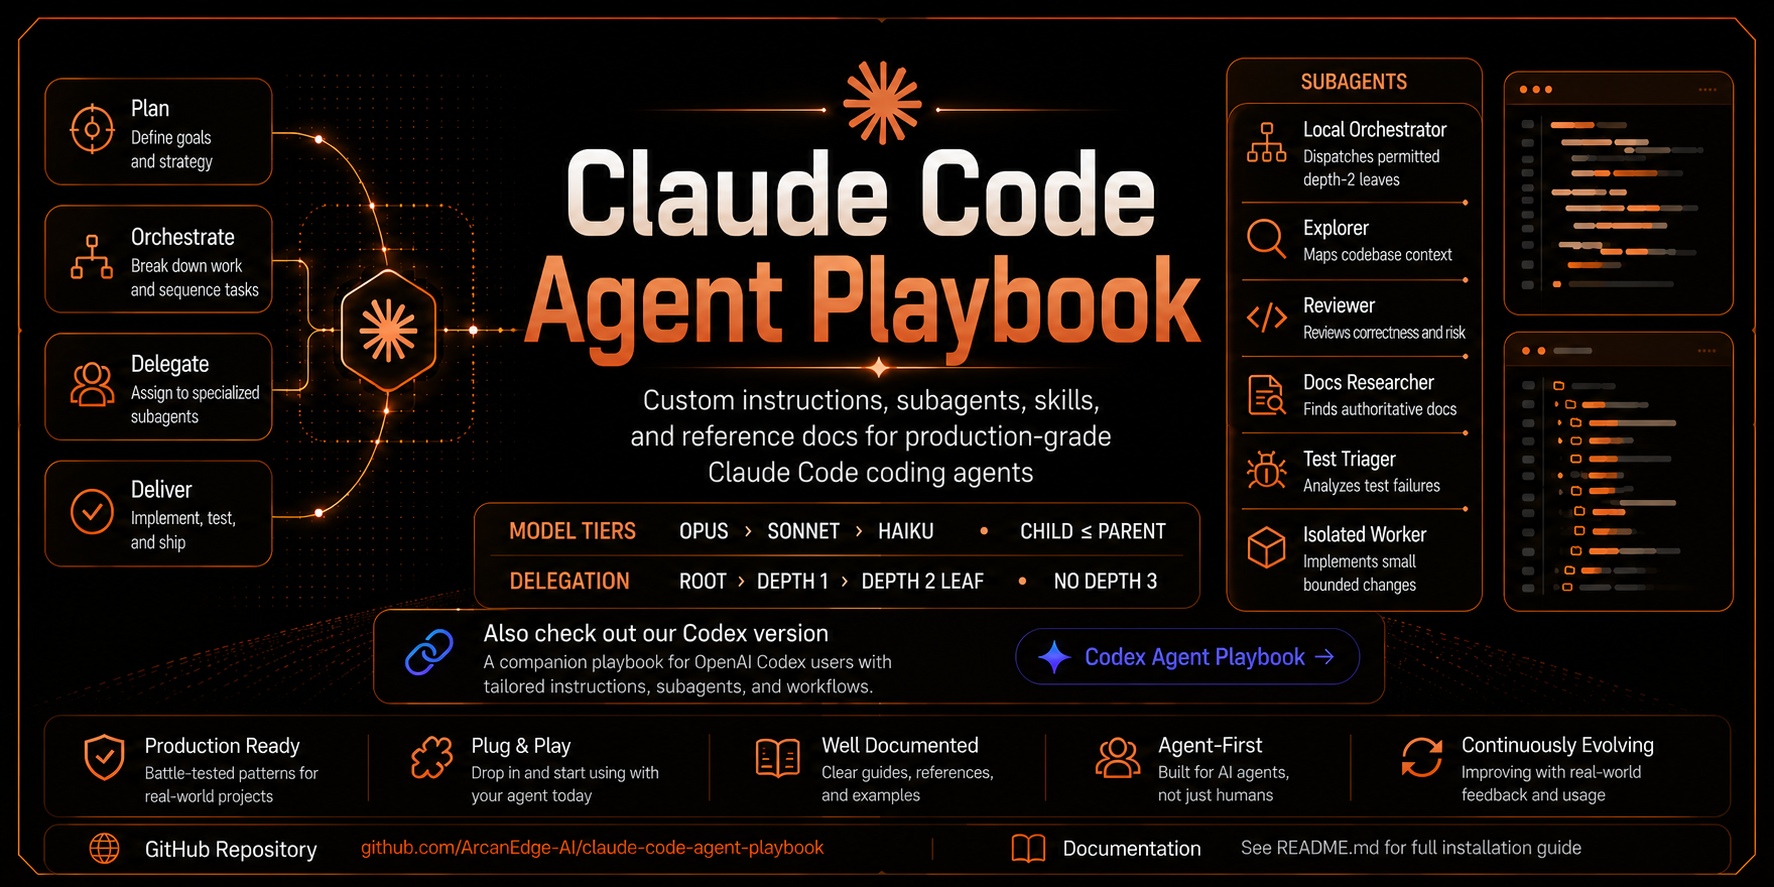
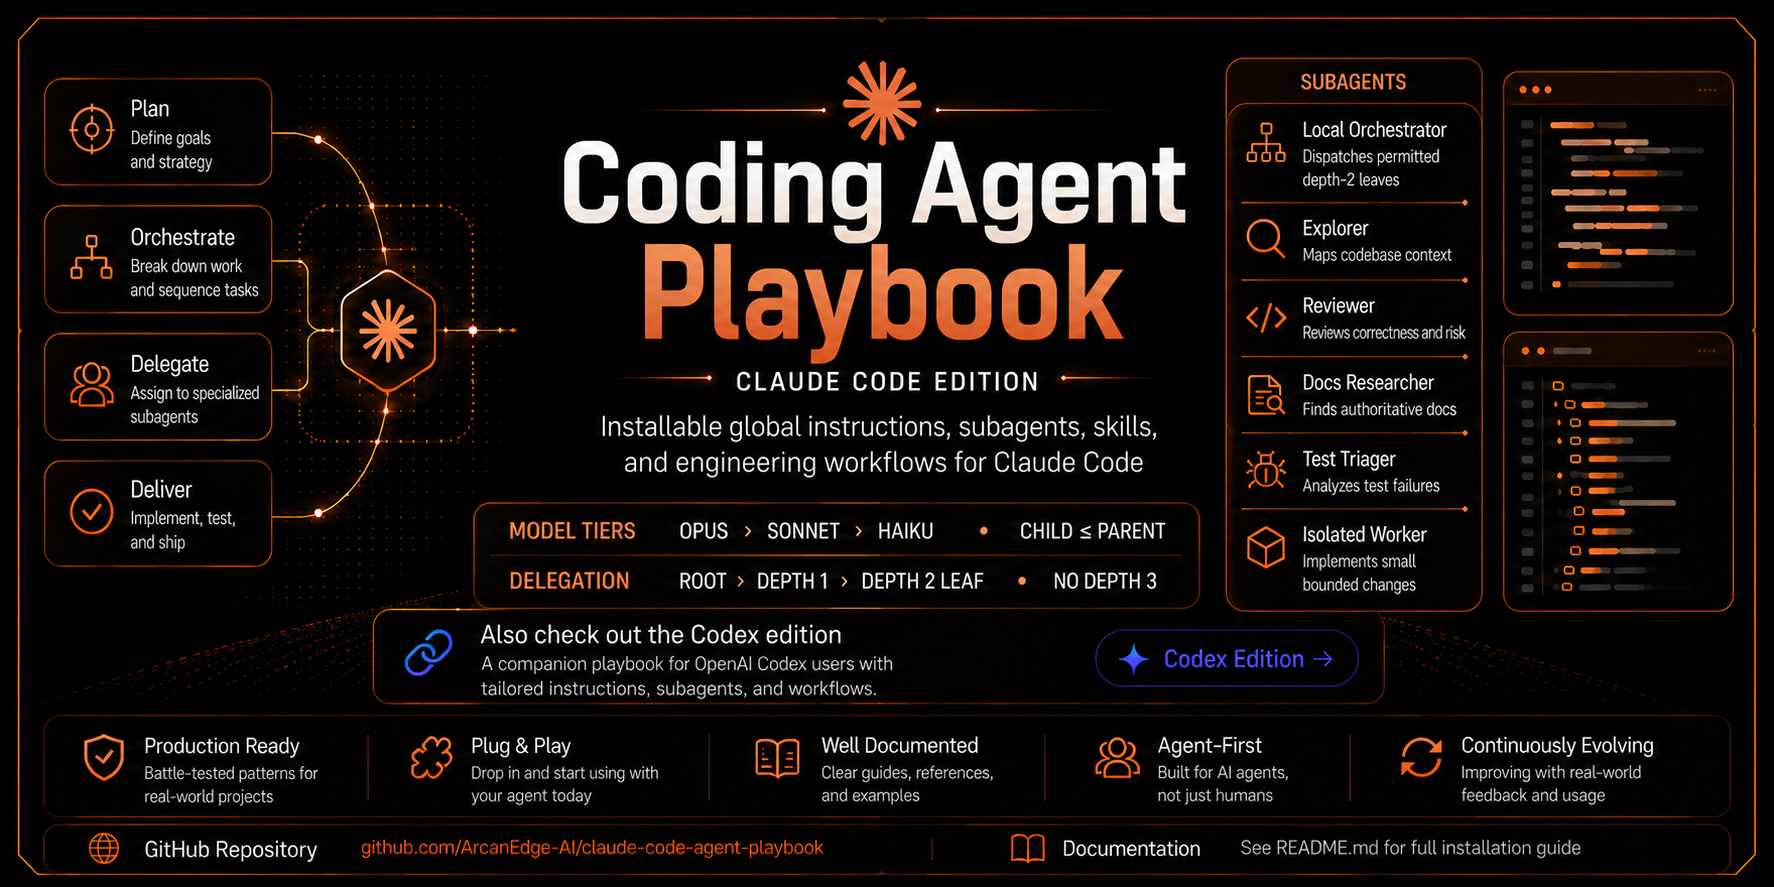
docs: establish Coding Agent Playbook editions

diff --git a/README.md b/README.md
@@ -1,11 +1,11 @@
 <p align="center">
-  <img src="./assets/claude-code-agent-playbook-hero.png" alt="Claude Code Agent Playbook hero banner" width="100%" />
+  <img src="./assets/claude-code-agent-playbook-hero.png" alt="Coding Agent Playbook — Claude Code Edition hero banner" width="100%" />
 </p>
 
-<h1 align="center">Claude Code Agent Playbook</h1>
+<h1 align="center">Coding Agent Playbook — Claude Code Edition</h1>
 
 <p align="center">
-  <strong>Global instructions, subagents, skills, and reference docs for production-grade Claude Code agents.</strong>
+  <strong>Installable, managed global instructions, subagents, skills, and engineering workflows for Claude Code.</strong>
 </p>
 
 <p align="center">
@@ -15,7 +15,7 @@
 <p align="center">
   <a href="#install-with-one-prompt">Install</a> ·
   <a href="#quick-start">Quick Start</a> ·
-  <a href="#related-playbooks">Related Playbooks</a> ·
+  <a href="#harness-editions">Harness Editions</a> ·
   <a href="#why-this-exists">Why This Exists</a> ·
   <a href="#whats-inside">What's Inside</a> ·
   <a href="#subagent-model">Subagent Model</a> ·
@@ -26,18 +26,18 @@
 </p>
 
 <p align="center">
-  <img src="https://img.shields.io/badge/Claude%20Code-Playbook-6E7BFF" alt="Claude Code Playbook" />
+  <img src="https://img.shields.io/badge/Claude%20Code-Edition-6E7BFF" alt="Claude Code Edition" />
   <img src="https://img.shields.io/badge/Subagents-Orchestrated-00C2FF" alt="Subagents Orchestrated" />
   <img src="https://img.shields.io/badge/Sessions-Coordinated-4ECDC4" alt="Sessions Coordinated" />
   <img src="https://img.shields.io/badge/Instructions-Tool--Agnostic-8A5CFF" alt="Instructions Tool Agnostic" />
-  <a href="https://github.com/ArcanEdge-AI/codex-agent-playbook"><img src="https://img.shields.io/badge/Codex-Companion-D97706" alt="Codex companion playbook" /></a>
+  <a href="https://github.com/ArcanEdge-AI/codex-agent-playbook"><img src="https://img.shields.io/badge/Codex-Edition-D97706" alt="Codex Edition" /></a>
   <img src="https://img.shields.io/badge/License-MIT-2ECC71" alt="MIT License" />
   <img src="https://img.shields.io/badge/Status-Active-2ECC71" alt="Status Active" />
 </p>
 
 <p align="center">
   <strong>Using Codex instead?</strong>
-  <a href="https://github.com/ArcanEdge-AI/codex-agent-playbook">Open the Codex Agent Playbook</a>.
+  <a href="https://github.com/ArcanEdge-AI/codex-agent-playbook">Open the Codex edition</a>.
 </p>
 
 ---
@@ -122,14 +122,14 @@ Save it as `CLAUDE.md` at the project root, then fill in the actual build comman
 
 ---
 
-## Related Playbooks
+## Harness Editions
 
-This repository is the Claude Code-focused version of the playbook.
+Coding Agent Playbook ships as separate harness-native editions. This repository is the Claude Code edition.
 
-| Agent environment | Repository | Use when |
+| Edition | Repository | Use when |
 | --- | --- | --- |
 | Claude Code | `ArcanEdge-AI/claude-code-agent-playbook` | You want global Claude Code instructions, reference docs, skills, and subagent definitions. |
-| Codex | [`ArcanEdge-AI/codex-agent-playbook`](https://github.com/ArcanEdge-AI/codex-agent-playbook) | You want the companion setup tuned for Codex. |
+| Codex | [`ArcanEdge-AI/codex-agent-playbook`](https://github.com/ArcanEdge-AI/codex-agent-playbook) | You want the harness-native edition tuned for Codex. |
 
 The philosophy is shared across both: the root agent acts as the senior engineer and orchestrator, subagents perform bounded evidence-backed execution, independent project sessions are coordinated explicitly, and final decisions stay with the root agent.
 

diff --git a/INSTALL.md b/INSTALL.md
@@ -1,4 +1,4 @@
-# Install Claude Code Agent Playbook
+# Install Coding Agent Playbook — Claude Code Edition
 
 This file is written for both humans and AI coding agents.
 
@@ -66,7 +66,7 @@ Full install:
 - copies custom Claude Code subagent definitions into `$CLAUDE_HOME/agents/`
 - copies skills into `$CLAUDE_HOME/skills/`
 
-The global instruction body is always installed inside one clearly marked Claude Code Agent Playbook section. Preserve content outside the markers. Add the marked section when both markers are absent or replace exactly one well-ordered marked section after a timestamped backup. If only one marker exists, either marker is duplicated, or the end appears before the start, stop without writing the file.
+The global instruction body is always installed inside one clearly marked Coding Agent Playbook — Claude Code Edition section. Preserve content outside the markers. Add the marked section when both markers are absent or replace exactly one well-ordered marked section after a timestamped backup. If only one marker exists, either marker is duplicated, or the end appears before the start, stop without writing the file.
 
 After a successful run, the installer writes `$CLAUDE_HOME/.claude-code-agent-playbook-managed-files.tsv` with every managed support-file path and source SHA-256. On later runs, files removed from the repository are backed up and retired only when they still match the previously installed hash. Customized formerly managed files are preserved and reported. Files that were never recorded as playbook-managed are never removed.
 
@@ -207,4 +207,4 @@ $CLAUDE_HOME/skills/reference-doc-routing/
 $CLAUDE_HOME/skills/senior-code-review/
 ```
 
-If you used full install and want to remove the global instructions, edit `$CLAUDE_HOME/CLAUDE.md` and remove the section between the Claude Code Agent Playbook start/end markers.
+If you used full install and want to remove the global instructions, edit `$CLAUDE_HOME/CLAUDE.md` and remove the section between the Coding Agent Playbook — Claude Code Edition start/end markers.

diff --git a/CONTRIBUTING.md b/CONTRIBUTING.md
@@ -1,6 +1,6 @@
 # Contributing
 
-Thanks for helping improve Claude Code Agent Playbook.
+Thanks for helping improve Coding Agent Playbook — Claude Code Edition.
 
 This repository is intentionally public and reusable. Contributions should make the playbook clearer, more durable, and less tool-specific.
 
